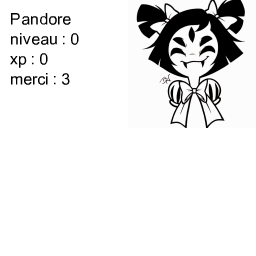
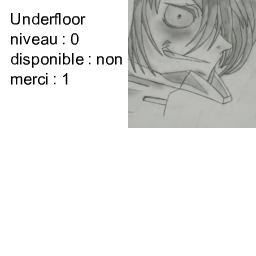
Profil Dispo And Roles Rework

Changed region(s): [[0.0312, 0.0, 1.0, 0.5], [0.0312, 0.0312, 0.3438, 0.125], [0.2188, 0.2812, 0.2812, 0.3438]]

diff --git a/bot.js b/bot.js
@@ -12,14 +12,17 @@ const Discord = require('discord.js');
 
 // other imports
 const fs = require('fs');
-const Jimp = require('jimp')
 
 // imports commands
 const commands = [
   require("./commands/initProfil"),
   require("./commands/avatar"),
   require("./commands/mesroles"),
-  require("./commands/commandes")
+  require("./commands/roles"),
+  require("./commands/commandes"),
+  require("./commands/merci"),
+  require("./commands/dispo"),
+  require("./commands/profil")
 ];
 
 // create an instance of a Discord Client, and call it bot
@@ -41,18 +44,6 @@ bot.on('message', message => {
     if (message.author.bot) {
         return;
     }
-    // commande !roles -> affiche la liste des rôles du serveur
-    else if (message.content === '!roles') {
-        message.channel.sendMessage("", { file: "images/roles.jpg"});
-        /*message.channel.sendMessage("Liste des roles :");
-        var ret = '';
-        for (var [key, roleserveur] of message.guild.roles.entries()){
-            if(roleserveur.name !== "@everyone"){   
-                ret =  ret + " | " + roleserveur.name;
-            }
-        }
-        message.channel.sendMessage("" + ret);*/
-    }
     // commande !createProfile -> creation du profil d'un membre (à automatiser à la 1ere connexion sur le serveur) 
     else if (message.content === '!initProfil') {
         var fichiermembre = '';
@@ -67,139 +58,6 @@ bot.on('message', message => {
             if (!err) console.log("It's saved!");
         });
     }
-    // commande !merci -> donne un point de soutien au membre cité
-    else if (message.content.startsWith('!merci')) {
-        //recuperation du 1er membre mentionné
-        let userMentioned = message.mentions.users.first();
-        //si un membre est mentionné et si l'auteur du message n'a pas envoyé de message récemment
-        if(userMentioned !== undefined && userMentioned !== message.author){
-            var dernierSoutien = fs.readFileSync('./profiles/' + message.author.id).toString().split("\n");
-            if(dernierSoutien[4] + 18000000 < Date.now()){
-                var data = fs.readFileSync('./profiles/' + userMentioned.id).toString().split("\n");
-                var nbmerci = parseInt(data[3])+1;
-                data.splice(3, 1, nbmerci);
-                var text = data.join("\n");
-                fs.writeFile('./profiles/' + userMentioned.id, text, function (err) {
-                    if (err) return console.log(err);
-                });
-                var dataAuthor = fs.readFileSync('./profiles/' + message.author.id).toString().split("\n");
-                var lastmerci = message.createdTimestamp;
-                data.splice(4, 1, lastmerci);
-                var text = data.join("\n");
-                fs.writeFile('./profiles/' + message.author.id, text, function (err) {
-                    if (err) return console.log(err);
-                });
-                message.channel.sendMessage(userMentioned + ' obtient un soutien de plus, il en a ' + nbmerci + ' !');
-            }
-            else{
-                message.reply('vous avez déjà soutenu un créa ces 5 dernière heures, attendez un peu !');
-            }
-        }
-        else{
-            message.channel.sendMessage('```!merci @pseudo (un soutien toutes les 5 heures; vous ne pouvez pas vous auto-remercier !)```');
-        }
-    }
-    // commande !profile ->génère une image du profil d'un membre de Kernel Concept
-    else if (message.content.startsWith('!profil')) {
-        //recuperation du 1er membre mentionné
-        let userMentioned = message.mentions.users.first();
-        //si un utilisateur est mentionné, récupérer le profil de ce dernier
-        if(userMentioned !== undefined){
-            //récupération du contenu du fichier profil
-            var profil = fs.readFileSync('./profiles/' + userMentioned.id).toString().split("\n");
-
-            var fileName = 'images/template.png';
-            var template;
-            var p1 = Jimp.read(fileName);
-            var p2 = Jimp.read(userMentioned.avatarURL);
-            var p3 = Jimp.loadFont(Jimp.FONT_SANS_16_BLACK);
-
-            //ajout de l'image de profil au template
-            Promise.all([p1, p2, p3]).then(function (images) {
-                let [template, avatar, font] = images;
-                avatar = avatar.scaleToFit(128,128);    
-                template.blit(avatar, 128, 0);
-                template.print(font, 10, 10, userMentioned.displayName);
-                template.print(font, 10, 30, 'niveau : ' + profil[1]);
-                if(profil[2].toString() === '0'){
-                    template.print(font, 10, 50, 'disponible : oui');
-                }
-                else{
-                    template.print(font, 10, 50, 'disponible : non');
-                }
-                template.print(font, 10, 70, 'merci : ' + profil[3]).write('images/template_temp.png', function(){message.channel.sendMessage("", { file: "images/template_temp.png"});});
-            }).catch(function (err) {
-                console.log(err);
-            });
-        }
-        //si pas d'utilisateur mentionné, récupérer le profil de celui qui a tapé la commande
-        else{
-            //récupération du contenu du fichier profil
-            var profil = fs.readFileSync('./profiles/' + message.author.id).toString().split("\n");
-
-            var fileName = 'images/template.png';
-            var template;
-            var p1 = Jimp.read(fileName);
-            var p2 = Jimp.read(message.author.avatarURL);
-            var p3 = Jimp.loadFont(Jimp.FONT_SANS_16_BLACK);
-
-            //ajout de l'image de profil au template
-            Promise.all([p1, p2, p3]).then(function (images) {
-                let [template, avatar, font] = images;
-                avatar = avatar.scaleToFit(128,128);    
-                template.blit(avatar, 128, 0);
-                template.print(font, 10, 10, message.author.username);
-                template.print(font, 10, 30, 'niveau : ' + profil[1]);
-                if(profil[2].toString() === '0'){
-                    template.print(font, 10, 50, 'disponible : oui');
-                }
-                else{
-                    template.print(font, 10, 50, 'disponible : non');
-                }
-                template.print(font, 10, 70, 'merci : ' + profil[3]).write('images/template_temp.png', function(){message.channel.sendMessage("", { file: "images/template_temp.png"});});
-            }).catch(function (err) {
-                console.log(err);
-            });
-        }
-    }
-    else if (message.content.startsWith('!dispo')) {
-
-        let args = message.content.split(" ").slice(1);
-        let rep = args[0];
-        var profilMembre = fs.readFileSync('./profiles/' + message.author.id).toString().split("\n");
-        if(rep === 'oui'){
-            var fichiermembre = '';
-            fichiermembre = message.author.id + '\n'; //id
-            fichiermembre += profilMembre[1] + '\n'; //niveau principal
-            fichiermembre += '0\n'; //dispo
-            fichiermembre += profilMembre[3] + '\n'; //nombre de soutien
-            fichiermembre += profilMembre[4] + '\n'; //date dernier soutien
-            fichiermembre += profilMembre[5] + '\n'; //nombre de messages
-
-            fs.writeFile('./profiles/' + message.author.id, fichiermembre, { flag: 'w' }, function (err) {
-                if (!err) console.log("It's saved!");
-            });
-            message.channel.sendMessage(message.author.username + ' est maintenant disponible pour participer à des projets !');
-        }
-        else if(rep === 'non'){
-            var fichiermembre = '';
-            fichiermembre = message.author.id + '\n'; //id
-            fichiermembre += profilMembre[1] + '\n'; //niveau principal
-            fichiermembre += '1\n'; //dispo
-            fichiermembre += profilMembre[3] + '\n'; //nombre de soutien
-            fichiermembre += profilMembre[4] + '\n'; //date dernier soutien
-            fichiermembre += profilMembre[5] + '\n'; //nombre de messages
-
-            fs.writeFile('./profiles/' + message.author.id, fichiermembre, { flag: 'w' }, function (err) {
-                if (!err) console.log("It's saved!");
-            });
-            message.channel.sendMessage(message.author.username + ' est maintenant disponible pour participer à des projets !');
-        }
-        else{
-            message.channel.sendMessage('```!dispo oui|non (indiquez si vous êtes disponibles pour participer à des projets ou déjà occupé.)```');
-        }
-    }
-
     // commande !initAllProfils -> génère le fichier profil de chaque membre (admin)
     else if (message.content.startsWith('!initAllProfils') && message.author.id === '274276871514882059') {
         
@@ -216,17 +74,6 @@ bot.on('message', message => {
                 if (!err) console.log("It's saved!");
             });
         }
-    }
-    // commande !commandes -> affiche la liste des commandes du bot Kernel Core
-    else if (message.content.startsWith('!commandes')) {
-        var affichageCommande = '';
-        affichageCommande = '```!profil -> affiche votre profil.\n';
-        affichageCommande += '!profil @pseudo -> affiche le profil d\'un membre à partir de son @.\n';
-        affichageCommande += '!mesroles -> affiche la liste de vos rôles.\n';
-        affichageCommande += '!roles -> affiche la liste de tous les rôles du serveur.\n';
-        affichageCommande += '!dispo oui|non -> indique si vous êtes disponibles pour participer à des projets ou déjà occupé.\n';
-        affichageCommande += '!initProfil -> ré-initialise votre profil. /!\\ \n```';
-        message.channel.sendMessage(affichageCommande);
     }
 
     for (command of commands) {

diff --git a/commands/profil.js b/commands/profil.js
@@ -1,0 +1,42 @@
+const fs = require('fs');
+const Jimp = require('jimp');
+
+let Profil = function() {
+  this.command = '!profil';
+  this.description = 'Génère une image de profil pour un membre';
+
+  this.handle = (message) => {
+    let userMentioned = message.mentions.users.first();
+    
+    if (userMentioned === undefined) { // @TODO catch bot
+      userMentioned = message.author;
+    }
+
+    let userProfile = JSON.parse(fs.readFileSync(`./profiles/${message.author.id}`));
+
+    let fileName = 'images/template.png';
+    let template;
+    let p1 = Jimp.read(fileName);
+    let p2 = Jimp.read(userMentioned.avatarURL);
+    let p3 = Jimp.loadFont(Jimp.FONT_SANS_16_BLACK);
+
+    Promise.all([p1, p2, p3]).then((images) => {
+      let [template, avatar, font] = images;
+      avatar = avatar.scaleToFit(128, 128);
+      template.blit(avatar, 128, 0);
+      template.print(font, 10, 10, userMentioned.username);
+      template.print(font, 10, 30, `niveau : ${userProfile.level}`);
+      template.print(font, 10, 50, `disponible : ${userProfile.disponibility ? "oui" : "non"}`);
+      template.print(font, 10, 70, `merci : ${userProfile.supports}`);
+      template.write('images/template_temp.png', () => {
+        message.channel.sendMessage('', {
+          file: "images/template_temp.png"
+        });
+      });
+    }).catch((err) => {
+      console.log(err);
+    });
+  }
+}
+
+module.exports = new Profil();

diff --git a/commands/merci.js b/commands/merci.js
@@ -1,0 +1,34 @@
+const fs = require('fs');
+
+let Merci = function() {
+  this.command = '!merci';
+  this.description = 'Remercie un membre de la communauté.',
+
+  this.handle = (message) => {
+    let userMentioned = message.mentions.users.first();
+
+    if (userMentioned !== undefined && userMentioned !== message.author) { // @TODO catch bot
+      var userProfile = JSON.parse(fs.readFileSync(`./profiles/${message.author.id}`));
+
+      if (userProfile.lastSupport === null || userProfile.lastSupport - 18000000 < Date.now()) {
+        var mentionedProfile = JSON.parse(fs.readFileSync(`./profiles/${userMentioned.id}`));
+        mentionedProfile.supports++;
+
+        userProfile.lastSupport = message.createdTimestamp;
+
+        fs.writeFileSync(`./profiles/${message.author.id}`, JSON.stringify(userProfile));
+        fs.writeFileSync(`./profiles/${mentionedProfile.id}`, JSON.stringify(mentionedProfile));
+
+        message.channel.sendMessage(
+          `${userMentioned} obtient un soutien de plus, pour un total de ${mentionedProfile.supports}.`
+        );
+      } else {
+        message.reply('Vous avez déjà soutenu un créateur ces 5 dernières heures.');
+      }
+    } else {
+      message.channel.sendMessage('```!merci @pseudo (vous ne pouvez pas vous remercier, vous pouvez soutenir une fois toute les 5 heures).');
+    }
+  }
+}
+
+module.exports = new Merci();

diff --git a/commands/dispo.js b/commands/dispo.js
@@ -1,0 +1,23 @@
+const fs = require('fs');
+
+let Dispo = function() {
+  this.command = '!dispo';
+  this.description = 'Indique votre disponibilité.';
+  
+  this.handle = (message) => {
+    let flag = message.content.split(" ").slice(1)[0];
+
+    if (flag === "oui" || flag === "non") {
+      let userProfile = JSON.parse(fs.readFileSync(`./profiles/${message.author.id}`));
+      userProfile.disponibility = flag === "oui";
+
+      fs.writeFileSync(`./profiles/${message.author.id}`, JSON.stringify(userProfile));
+
+      message.channel.sendMessage(`${message.author.username} est maintenant ${flag === "oui" ? "disponnible" : "indisponnible"} pour participer à des projets !`);
+    } else {
+      message.channel.sendMessage('```!dispo oui|non (indiquez si vous êtes disponible pour participé à des projets).```');
+    }
+  };
+}
+
+module.exports = new Dispo();

diff --git a/commands/initProfil.js b/commands/initProfil.js
@@ -5,20 +5,16 @@ let InitProfil = function () {
 
   this.handle = (message) => {
     if (!fs.existsSync(`./profiles/${message.author.id}`)) {
-      let profil = // id, niveau, dispo, soutiens, date dernier soutien, messages
-`${message.author.id}
-0
-0
-0
-0
-0`
-      ;
+      let profil = {
+        id: message.author.id,
+        level: 0,
+        disponibility: false,
+        supports: 0,
+        lastSupport: null,
+        messages: 0
+      };
 
-      fs.writeFile(`./profiles/${message.author.id}`, profil, {flag: 'w'}, (err) => {
-        if (!err) {
-          console.log(`${message.author.id} : profile saved.`);
-        }
-      });
+      fs.writeFileSync(`./profiles/${message.author.id}`, JSON.stringify(profil));
     }
   }
 }

diff --git a/commands/roles.js b/commands/roles.js
@@ -1,0 +1,12 @@
+let Roles = function() {
+  this.command = '!roles';
+  this.description = 'Affiche la liste des rôles possibles.';
+
+  this.handle = (message) => {
+    message.channel.sendMessage('Liste des rôles.', {
+      file: 'images/roles.jpg'
+    });
+  }
+}
+
+module.exports = new Roles();
